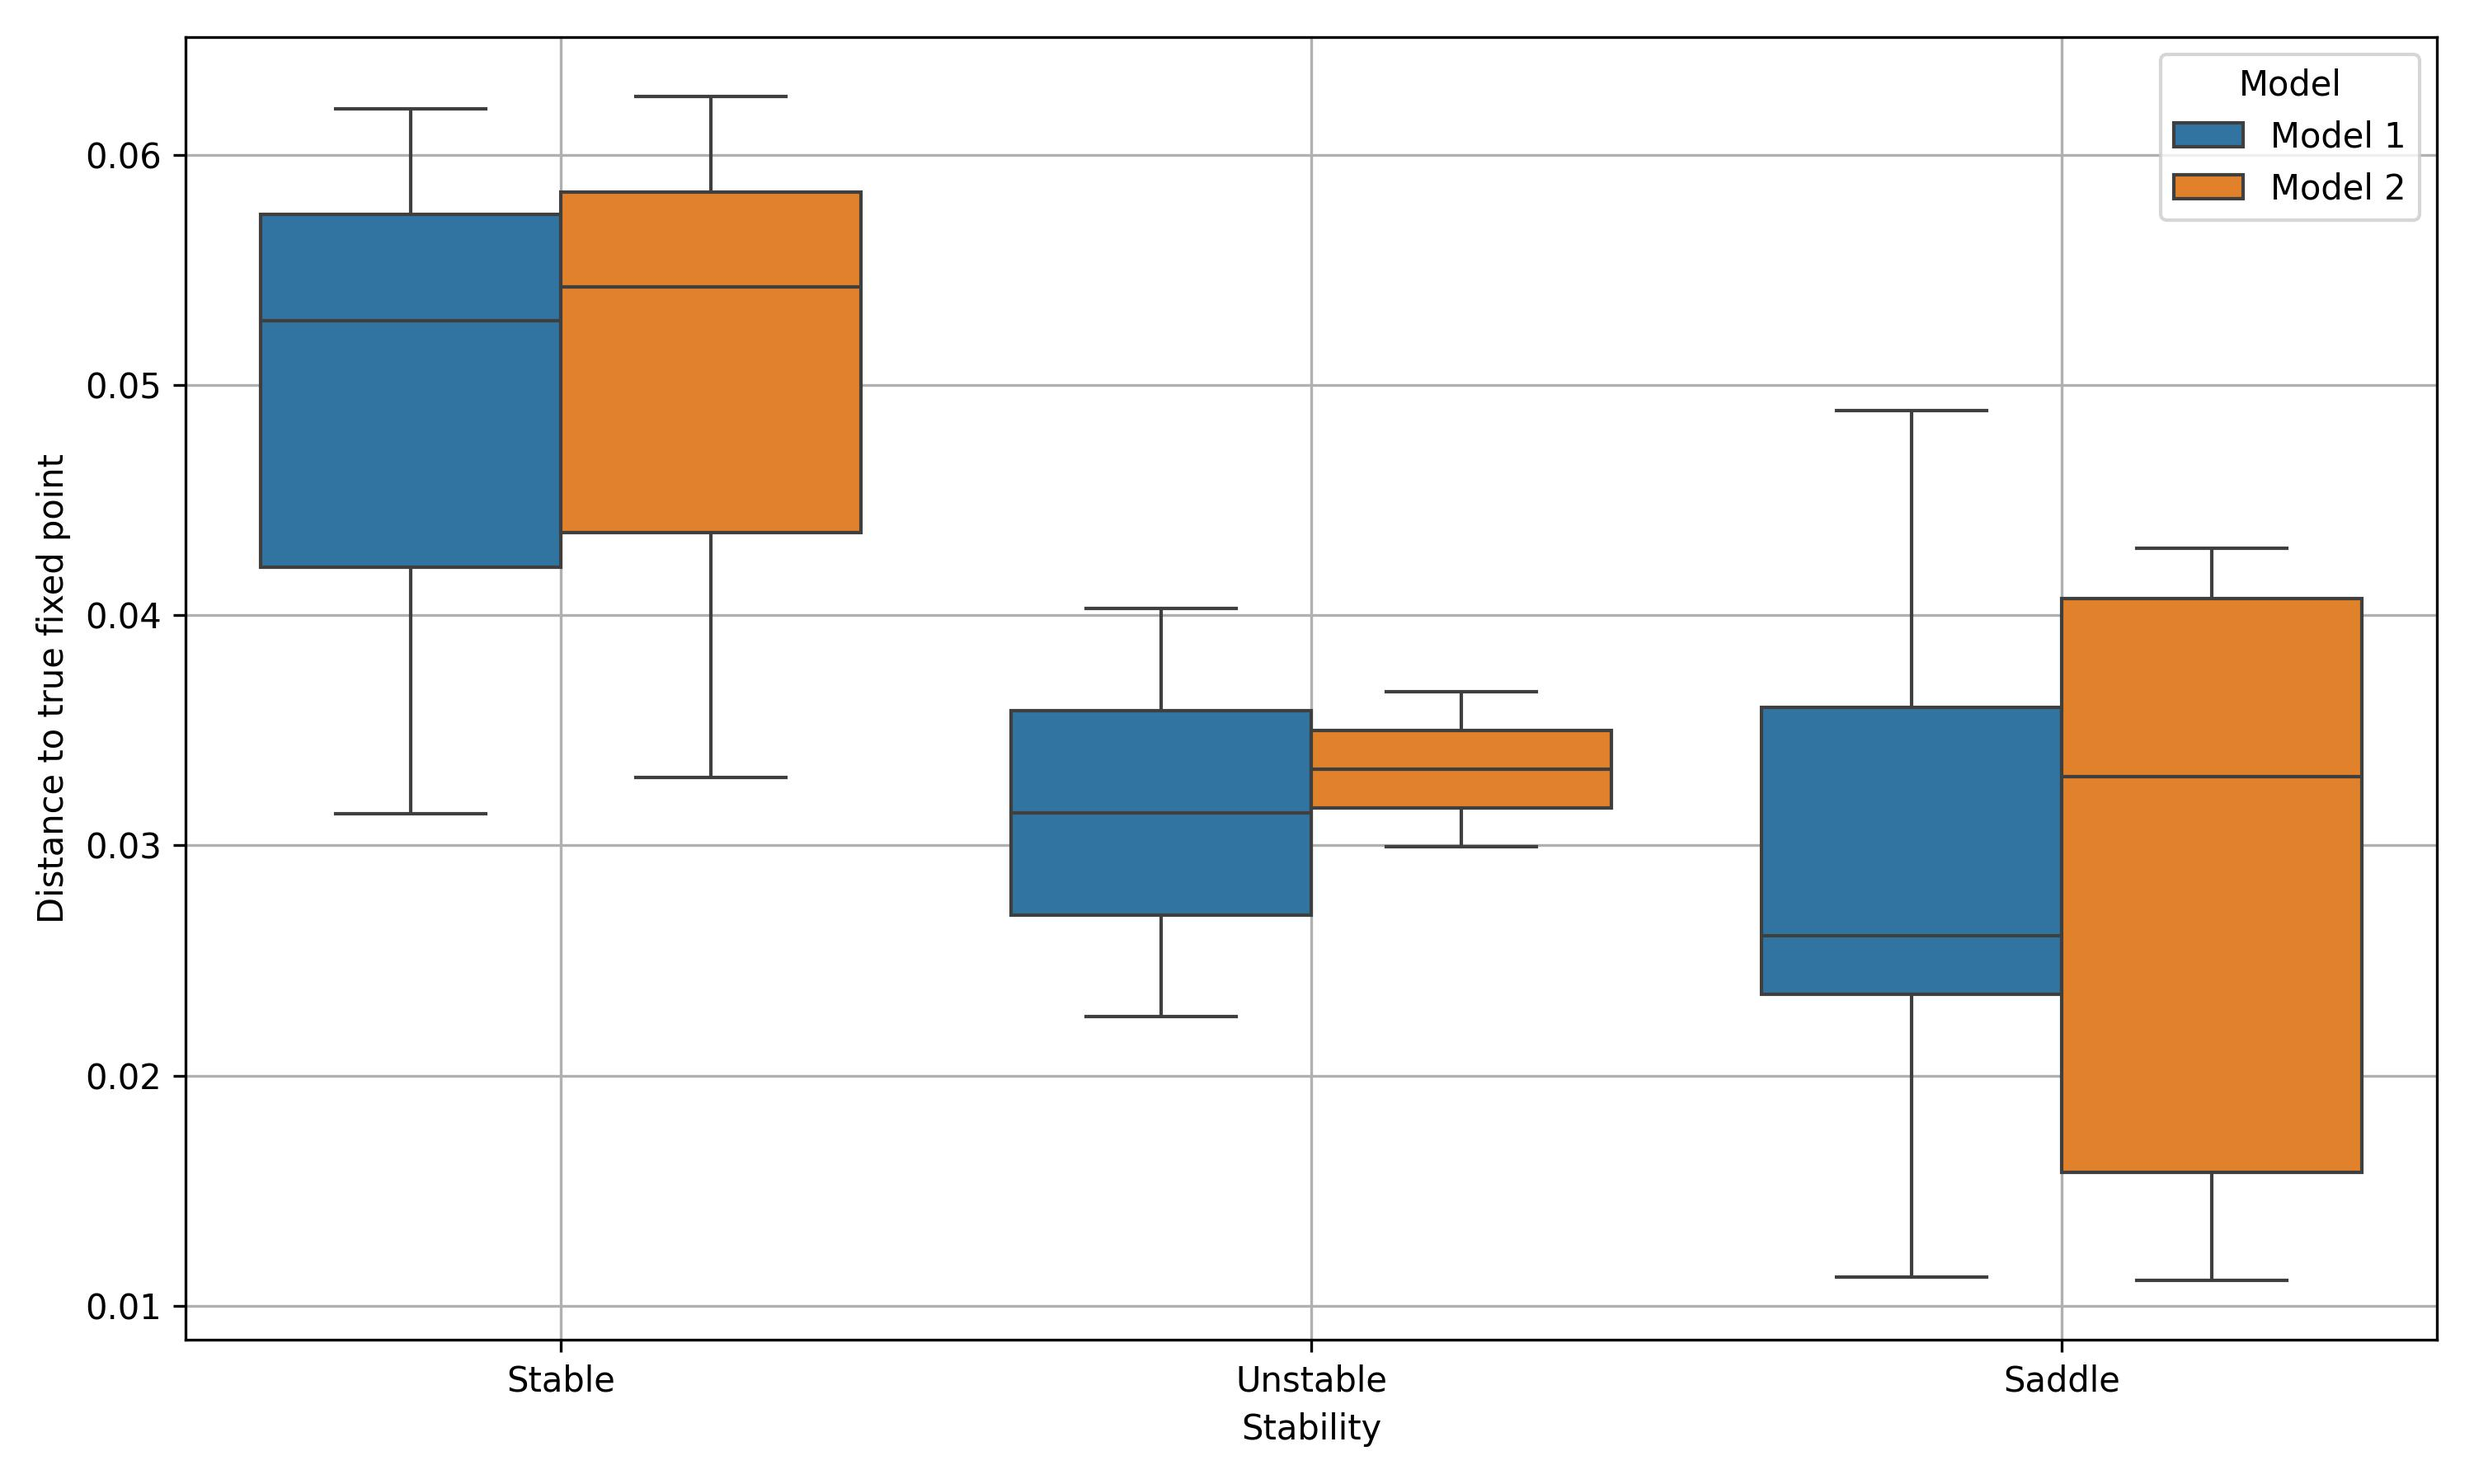
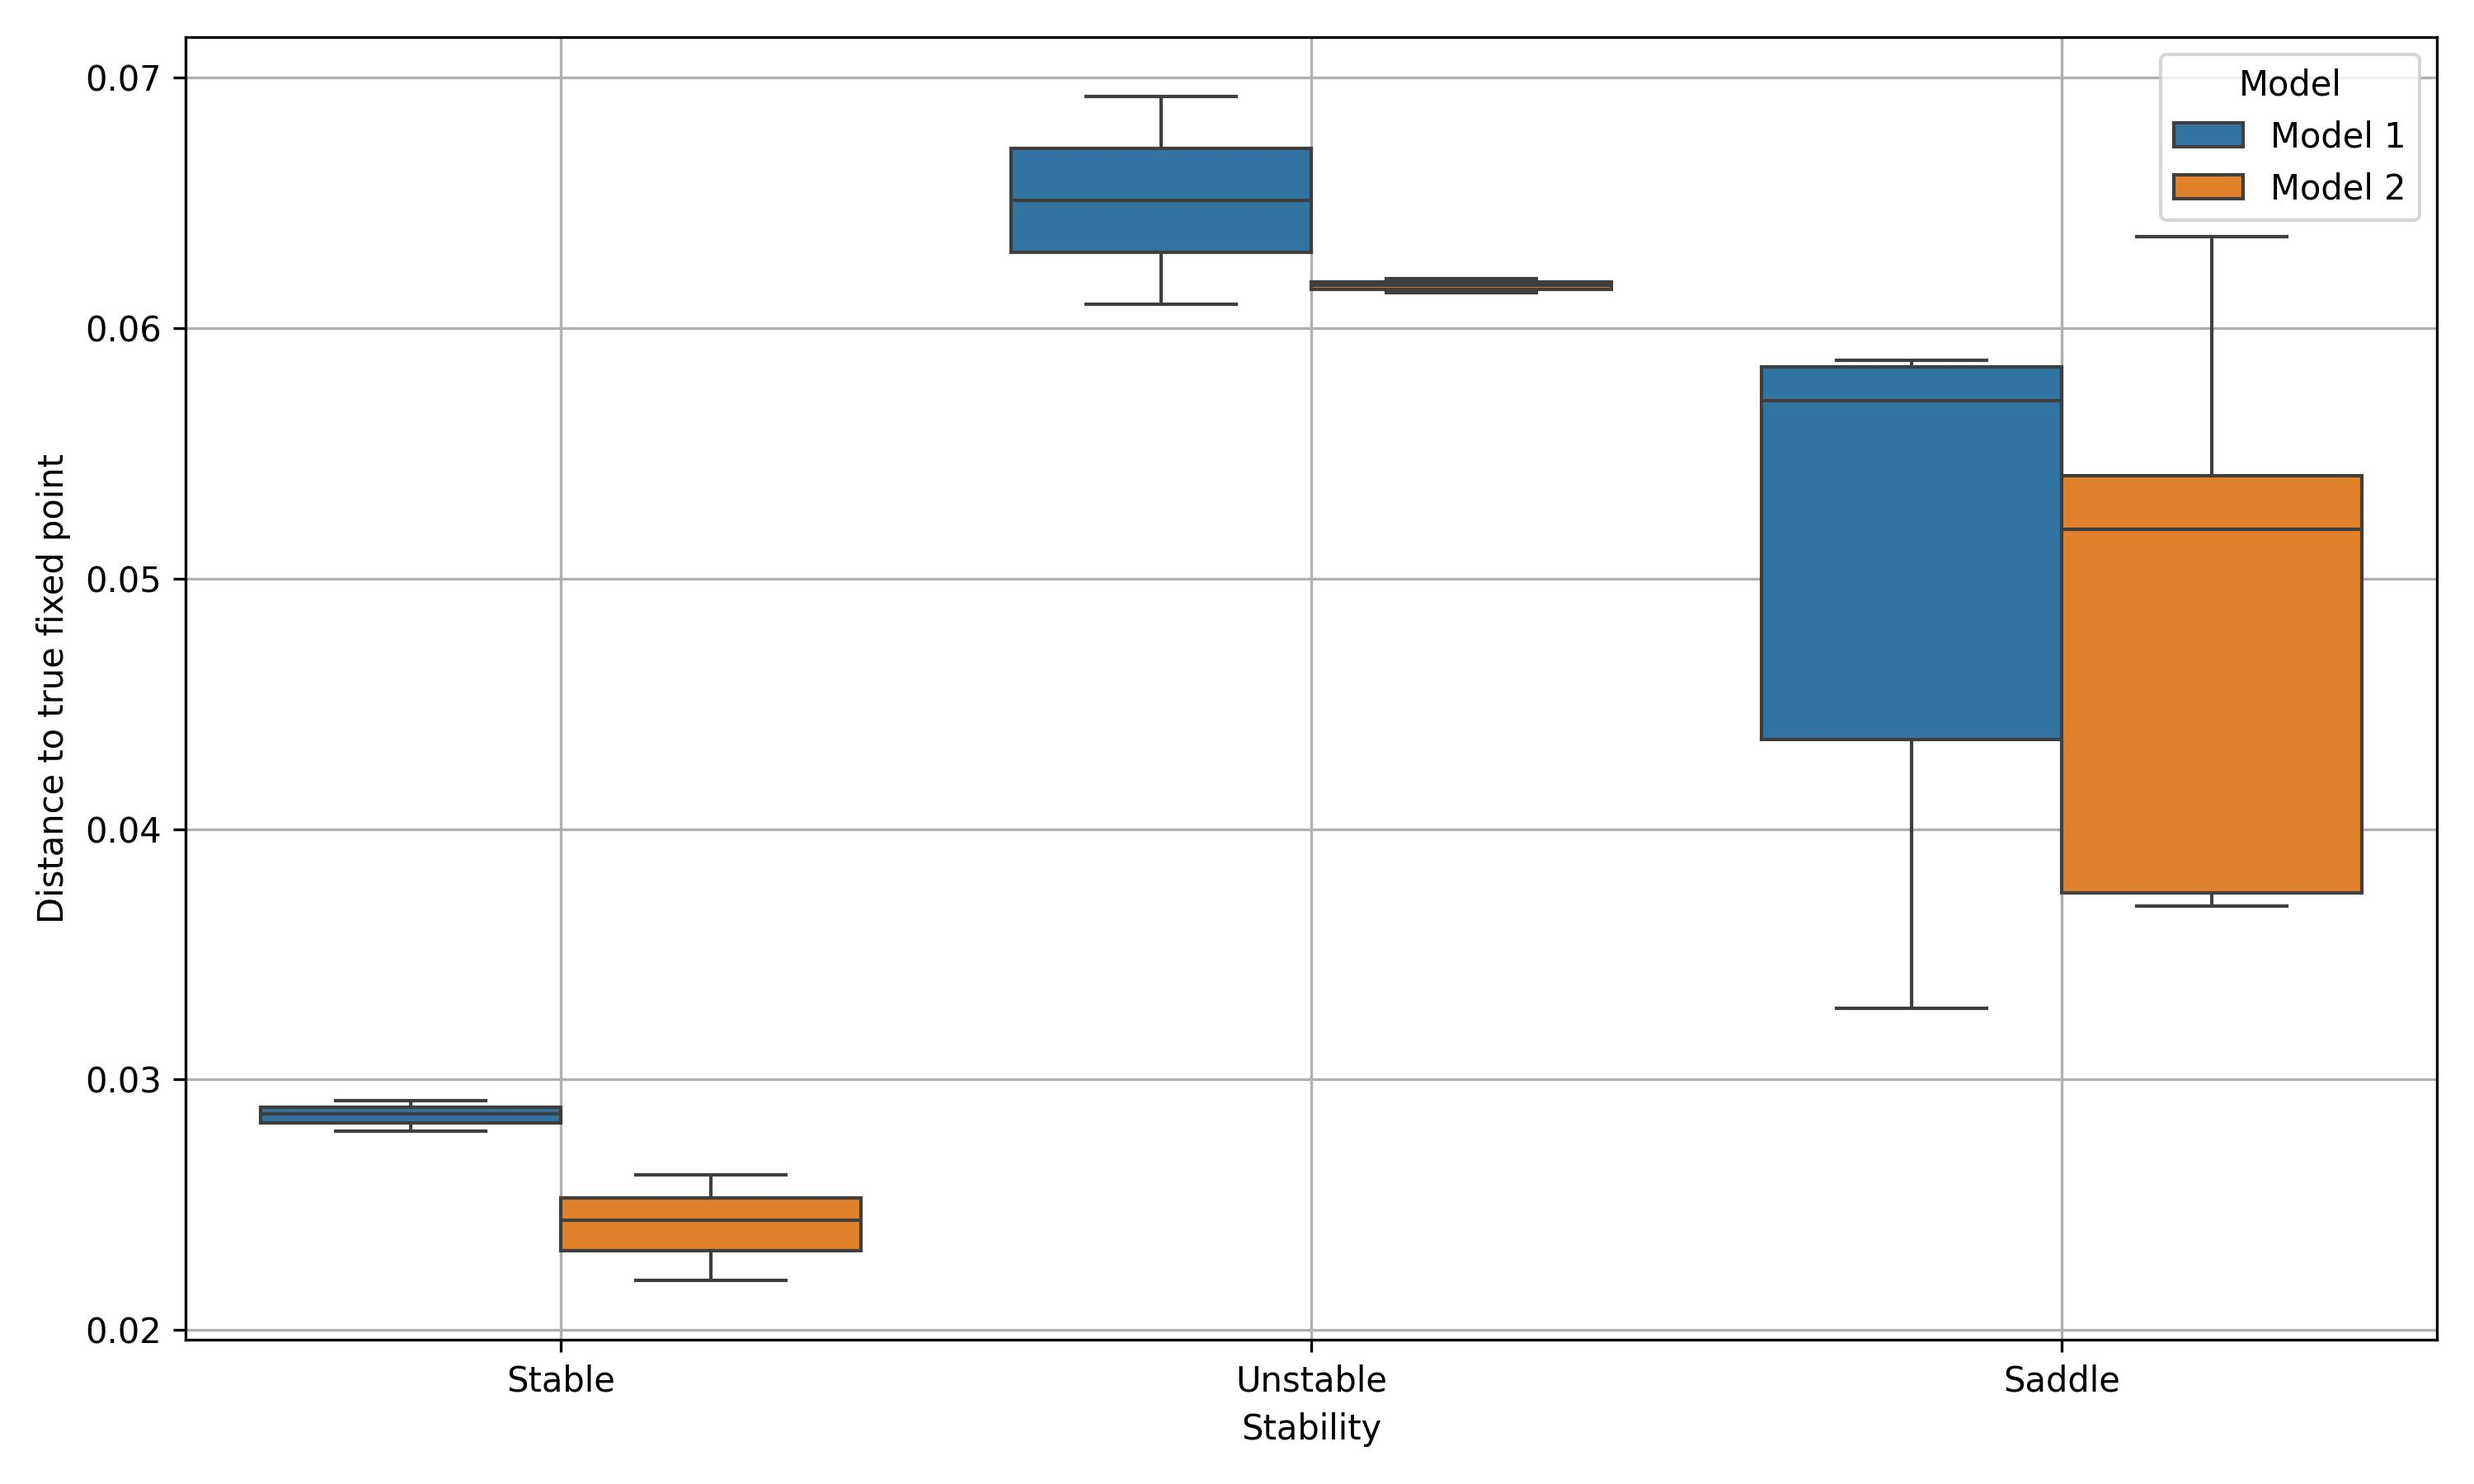
cuda

diff --git a/linear_fixed_points.py b/linear_fixed_points.py
@@ -13,7 +13,7 @@ from pcgrad import PCGrad
 import pandas as pd
 import seaborn as sns
 import sympy as sp
-torch.set_default_device('mps')
+torch.set_default_device('cuda')
 
 def get_sol(A, interval, c_i):
     def xdot(t, x):
